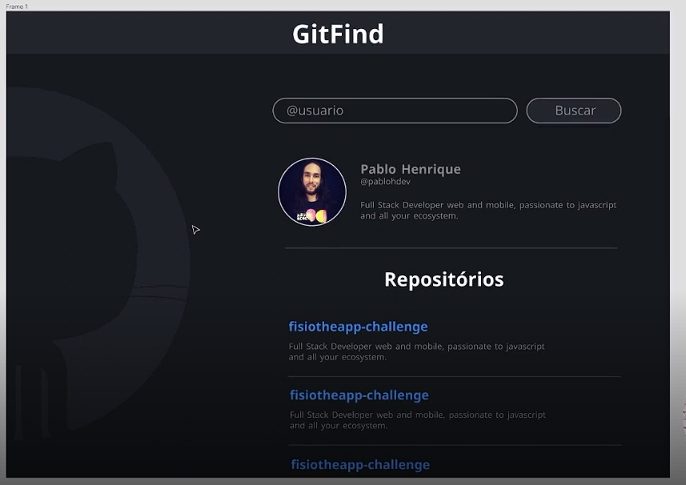
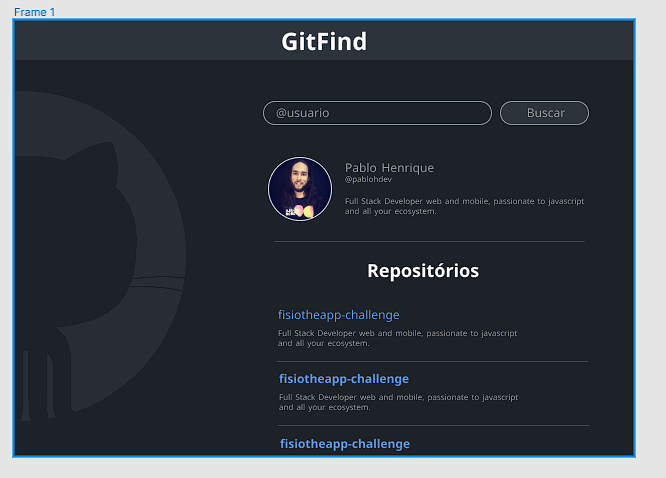
Add input and button into information component

diff --git a/src/pages/Home/style.css b/src/pages/Home/style.css
@@ -1,0 +1,42 @@
+.content {
+    position: relative;
+    display: flex;
+    align-items: flex-start;
+    justify-content: flex-end;
+}
+
+.background {
+    height: 100vh;
+    position: absolute;
+    left: 0;
+
+}
+
+.information {
+   width: 60%;
+   margin-right: 90px; 
+   margin-top: 40px;
+   color: #FFFFFF;
+}
+
+input {
+    border-radius: 22px;
+    min-width: 200px;
+    margin-right: 12px;
+    width: 80%;
+    border: 1px solid #999999;
+    background: transparent;
+    font-size: 18px;
+    padding: 10px;
+    color: #FFFFFF;
+}
+
+button {
+    border: 1px solid #999999;
+    border-radius: 22px;
+    margin-right: 12px;
+    background: #2D333B;
+    font-size: 18px;
+    color: #FFFFFF;
+    padding: 10px;
+}

diff --git a/src/pages/Home/index.js b/src/pages/Home/index.js
@@ -1,9 +1,22 @@
 import { Header } from '../../components/Header';
+import background from '../../assets/background.png'
+import './style.css'
 
 function App() {
   return (
     <div className="App">
       <Header />
+      <div className='content'> 
+        <img src ={background} className='background' alt='Imagem do mascote do Github, como background do app'/>
+      <div className='information'>
+        <div className=''>
+          <input name='usuario' placeholder='@username' />
+          <button>
+            Buscar
+          </button>
+        </div>
+      </div>
+      </div>
     </div>
   );
 }
